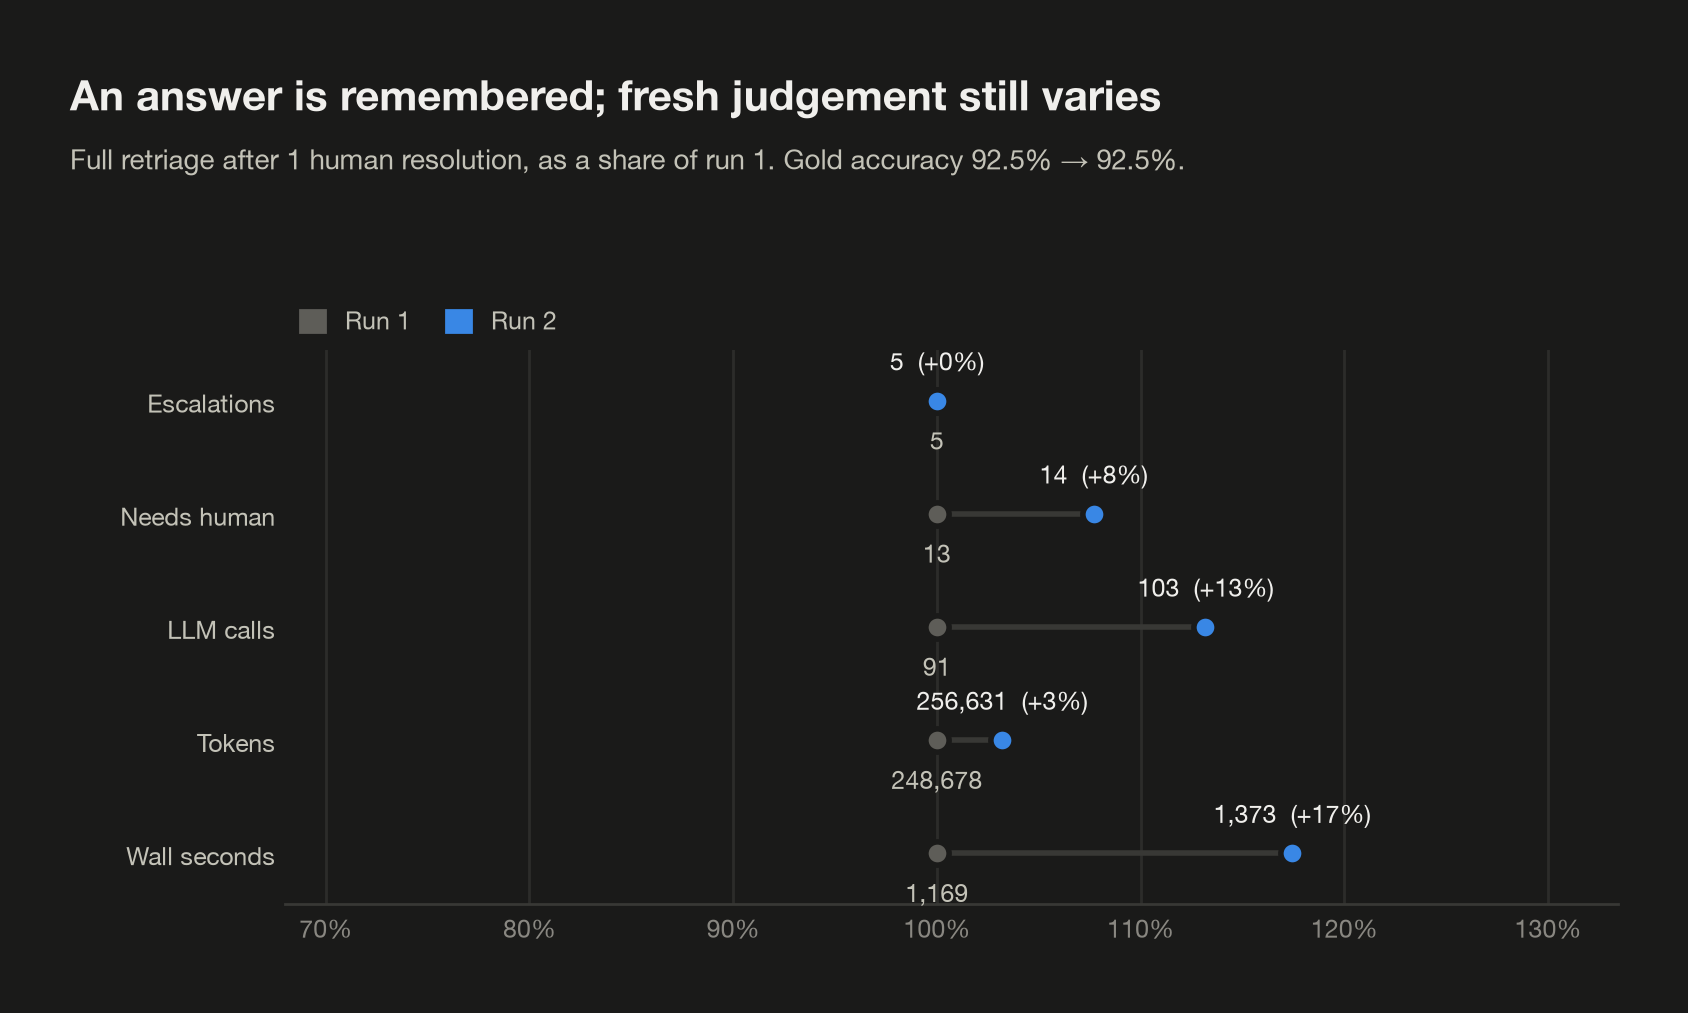
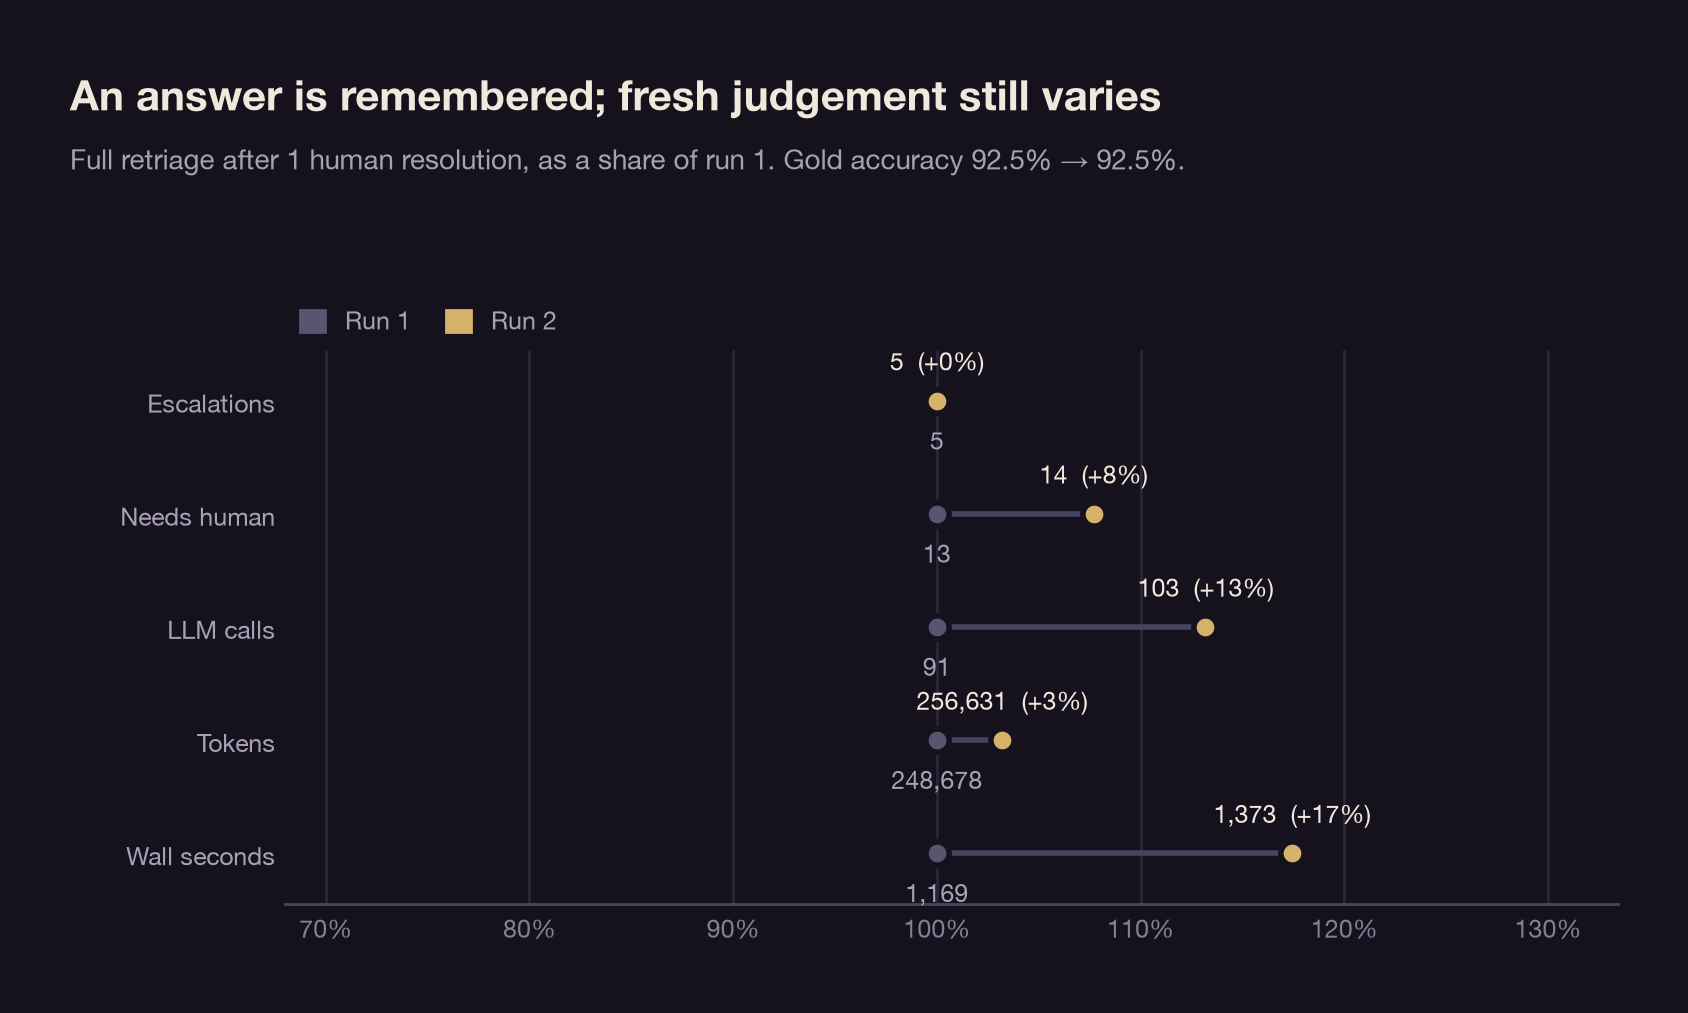
Retell the README around the silent NVD gap and refresh every image.

diff --git a/eval/charts.py b/eval/charts.py
@@ -2,9 +2,7 @@
 """Charts for the results narrative, in light and dark.
 
 Reads eval/results/eval-full.json and eval/results/robustness.json and
-writes PNGs to eval/results/charts/{light,dark}/. The annotated case file
-is drawn on output_examples/ui/case.png, which is a dark screenshot, so it
-is written once to both folders.
+writes PNGs to eval/results/charts/{light,dark}/.
 
     uv run --with matplotlib eval/charts.py
 """
@@ -23,35 +21,35 @@ from matplotlib.patches import FancyBboxPatch, Rectangle  # noqa: E402
 ROOT = Path(__file__).resolve().parents[1]
 RESULTS = ROOT / "eval" / "results"
 OUT = RESULTS / "charts"
-CASE_PNG = ROOT / "output_examples" / "ui" / "case.png"
 
+# The console's Ivory and Ink tokens (web/src/index.css), so the charts read as part of Sibyl.
 THEMES = {
     "light": {
-        "surface": "#fcfcfb",
-        "ink": "#0b0b0b",
-        "ink2": "#52514e",
-        "muted": "#898781",
-        "grid": "#e1e0d9",
-        "axis": "#c3c2b7",
-        "card": "#f3f2ee",
-        "accent": "#2a78d6",
-        "other": "#b9b7af",
-        "series": ["#2a78d6", "#eb6834", "#1baf7a", "#eda100", "#e87ba4"],
+        "surface": "#fbf8f2",
+        "ink": "#1c1828",
+        "ink2": "#5a5468",
+        "muted": "#8c869a",
+        "grid": "#e2dacb",
+        "axis": "#cfc6b4",
+        "card": "#f2ece1",
+        "accent": "#8a6a22",
+        "other": "#bdb5a6",
+        "series": ["#8a6a22", "#2c5f95", "#6a4bd1", "#b23a7e", "#5a5468"],
     },
     "dark": {
-        "surface": "#1a1a19",
-        "ink": "#f0efec",
-        "ink2": "#c3c2b7",
-        "muted": "#898781",
-        "grid": "#2c2c2a",
-        "axis": "#383835",
-        "card": "#242423",
-        "accent": "#3987e5",
-        "other": "#5e5d58",
-        "series": ["#3987e5", "#d95926", "#199e70", "#c98500", "#d55181"],
+        "surface": "#15121e",
+        "ink": "#efe9dc",
+        "ink2": "#a8a1b6",
+        "muted": "#847e96",
+        "grid": "#2a2638",
+        "axis": "#4a4460",
+        "card": "#1b1828",
+        "accent": "#d4b26a",
+        "other": "#5a5470",
+        "series": ["#d4b26a", "#8fb3d9", "#b9a2f0", "#e79ac4", "#a8a1b6"],
     },
 }
-STATUS = {"good": "#0ca30c", "warning": "#fab219", "critical": "#d03b3b"}
+STATUS = {"good": "#3f9a66", "warning": "#d9a43a", "critical": "#c8443c"}
 # A list in font.family lets matplotlib fall back per glyph (✓ ✗ → are not in Helvetica).
 FONT = ["Helvetica Neue", "Arial", "DejaVu Sans"]
 BUCKETS = ["straightforward", "nvd_gap", "range_conflict", "text_only", "special"]
@@ -113,10 +111,7 @@ def main() -> int:
             figure = draw(theme, result=result, robust=robust, gold=gold)
             figure.savefig(folder / f"{name}.png", dpi=200, bbox_inches="tight", pad_inches=0.35)
             plt.close(figure)
-        figure = case_annotated(theme)
-        figure.savefig(folder / "07-case-file-validator.png", dpi=150, bbox_inches="tight", pad_inches=0.2)
-        plt.close(figure)
-        print(f"wrote {folder.relative_to(ROOT)} ({len(charts) + 1} charts)")
+        print(f"wrote {folder.relative_to(ROOT)} ({len(charts)} charts)")
     return 0
 
 
@@ -392,50 +387,6 @@ def outcome_stack(theme, *, result, **_):
         axis,
         theme,
         [("Correct", _tint(STATUS["good"], theme)), ("Escalated to a human", STATUS["warning"]), ("Wrong", STATUS["critical"])],
-    )
-    return figure
-
-
-# ---------- 07 ----------
-
-
-def case_annotated(theme):
-    image = plt.imread(CASE_PNG)
-    height, width = image.shape[:2]
-    fig_w, fig_h = width / 150 + 5.2, height / 150 + 1.5
-    figure = plt.figure(figsize=(fig_w, fig_h))
-    figure.patch.set_facecolor(theme["surface"])
-    axis = figure.add_axes([0.0, 0.55 / fig_h, (width / 150) / fig_w, (height / 150) / fig_h])
-    axis.imshow(image)
-    axis.set_axis_off()
-    figure.text(0.01, 0.985, "Every verdict shows its work: the validator case file", fontsize=17, fontweight="semibold", color=theme["ink"], va="top")
-    notes = [
-        (180, "The verdict: affected, decided by the critic, not by one feed."),
-        (572, "Provenance: NVD and OSV both give a range. NVD's CPE bound is a typo (≤ 3.15.15)."),
-        (856, "Critic: the CPE bound contradicts a version in NVD's own description. Send back."),
-        (1012, "Matcher re-reads the description and quotes it: \"through version 13.15.15\"."),
-    ]
-    x_note = 1.02
-    for number, (y, text) in enumerate(notes, start=1):
-        axis.add_patch(plt.Circle((1500, y), 22, color=theme["accent"]))
-        axis.text(1500, y, str(number), ha="center", va="center", fontsize=11, color="#ffffff", fontweight="bold")
-        axis.annotate(
-            f"{number}  {text}",
-            xy=(1525, y),
-            xytext=(x_note, 1 - y / height),
-            textcoords="axes fraction",
-            fontsize=11,
-            color=theme["ink"],
-            va="center",
-            wrap=True,
-            arrowprops={"arrowstyle": "-", "color": theme["muted"], "linewidth": 1},
-        )
-    figure.text(
-        0.01,
-        0.15 / fig_h,
-        "Then the conflict clears and the verdict stays affected, linked to fix commit cbef508. Gold label G027: affected.",
-        fontsize=11,
-        color=theme["ink2"],
     )
     return figure
 

diff --git a/README.md b/README.md
@@ -1,31 +1,55 @@
+<picture>
+  <source media="(prefers-color-scheme: dark)" srcset="assets/readme/dark/hero.png">
+  <img alt="Sibyl: which new vulnerabilities actually affect your software? Beside it, the Sibyl overview with its briefing: patch pillow 9.5.0 in reporting-worker first." src="assets/readme/light/hero.png">
+</picture>
+
 # Sibyl
 
 **Which new vulnerabilities actually affect your software?**
 
-Sibyl is a team of agents that answers that question for your own code. Connect a repository and Sibyl finds your services and the exact package versions they run, reconciles seven public vulnerability sources against them, and tells you what to patch first. Every verdict cites the source record behind it. When the evidence falls short, Sibyl asks you instead of guessing, and it remembers your answer.
+Sibyl is a team of six agents that answers that question for your own code, and shows its work. Connect a repository and Sibyl finds every service and the exact package versions it runs. It reconciles seven public vulnerability sources that disagree with each other, and tells you what to patch first. Every verdict cites the record behind it. When the evidence falls short, Sibyl asks you instead of guessing, and it remembers your answer.
 
 Built for the Open Agent Hackathon 2026, Track 1: Solving Fragmented Intelligence.
 
-## The problem
+## Your scanner went quiet in April
 
-Vulnerability data is scattered and it disagrees. OSV, GitHub Advisories, NVD, CVE.org, CISA KEV, FIRST EPSS and ENISA EUVD each describe the same flaw differently: different package names, different version ranges, and sometimes plain mistakes. In 2026 NVD stopped enriching most new CVEs with the CPE data that legacy scanners depend on, so a pipeline built on NVD alone now misses more than half of the real problems.
+On 15 April 2026, NIST's National Vulnerability Database (NVD) stopped fully enriching most new CVEs. Only 15 to 20 percent still get the CPE data that tells a scanner which product versions are affected. Many free scanners and in-house scripts match your software to vulnerabilities through exactly that data. Since April they have been missing new vulnerabilities, and they do it silently: no error, just fewer findings.
 
-A security engineer ends up reading four advisories to settle one CVE, for one package, in one service. Then they do it again next week.
+The data still exists, but it is spread across seven sources that disagree. OSV, GitHub Advisories, NVD, CVE.org, CISA KEV, FIRST EPSS and ENISA EUVD each describe the same flaw with different package names, different version ranges, and sometimes plain mistakes. When we checked the twelve newest reviewed GitHub advisories, NVD had no CPE data for any of them. OSV and GitHub had exact version ranges for all twelve.
 
-## How you work with Sibyl
+So a security engineer reads four advisories to settle one CVE, for one package, in one service. Then they do it again next week.
 
-1. **Connect a repository.** Sibyl scans the tree with `cdxgen` and makes a service of every folder with its own manifest (npm, PyPI, Maven, Go), with the exact versions it runs.
-2. **Confirm what it worked out.** From the code it read, Sibyl proposes each service's exposure, owner, criticality and data, and asks you to confirm them in the Inbox. Those answers weight every priority after that.
-3. **Let the agents triage.** Six agents reconcile the seven sources against your packages. Every step is recorded in the run trace.
-4. **Patch what matters.** The patch list ranks cases by known exploitation, EPSS, CVSS and how exposed the service is, and shows which sources agree with each verdict.
-5. **Check any verdict.** A case file shows every fact with the record it came from, and which source won when they disagreed.
-6. **Answer what it can't settle.** Conflicting or thin evidence goes to *Needs you* with each source's position side by side.
-7. **It remembers.** Your answer decides the same case in later runs. Trust in each source changes only when you approve it.
-8. **It keeps watching.** Sibyl re-scans when code changes, refreshes the feeds and re-triages on a schedule, reusing every verdict whose inputs didn't change.
+<picture>
+  <source media="(prefers-color-scheme: dark)" srcset="eval/results/charts/dark/01-problem-recall-by-bucket.png">
+  <img alt="Bar chart: a legacy NVD pipeline finds 11 of 26 real vulnerabilities in the gold set; Sibyl finds all 26." src="eval/results/charts/light/01-problem-recall-by-bucket.png">
+</picture>
 
-The UI has a guided tour of exactly this flow: open it with **Explore the demo**. It uses a sample company with four services, so no repository is needed.
+On our hand-labelled gold set, a pipeline built on NVD alone finds 11 of the 26 real vulnerabilities. Sibyl finds all 26.
 
-## The agents
+## What Sibyl promises
+
+- **It starts from your code.** Not a list of CVEs, but the services you run and the exact versions inside them.
+- **It shows its work.** Every fact links to the source record it came from, and every disagreement shows which source won and why.
+- **It asks when it can't know.** Thin or conflicting evidence goes to you with each source's position side by side. It is never guessed at.
+- **It learns.** Your answer decides the same case in later runs. Trust in a source changes only when you approve it.
+
+## Every verdict shows its work
+
+<picture>
+  <source media="(prefers-color-scheme: dark)" srcset="assets/readme/dark/case-file.png">
+  <img alt="The Sibyl case file for CVE-2025-56200 in validator 13.7.0, annotated: NVD's range is a typo, the Critic sends the case back, the Matcher quotes NVD's own description, and the Critic accepts." src="assets/readme/light/case-file.png">
+</picture>
+
+Here is one real case from the sample run. NVD's version range for `validator` is a typo that contradicts NVD's own description. A scanner that trusts one feed would take the range at face value. Sibyl's Critic notices the contradiction and sends the case back. The Matcher re-reads the record and quotes the sentence that settles it, and the Critic accepts. The gold label, taken from the upstream fix commit, agrees.
+
+This is the core idea: agents that check each other's work, and a case file that keeps the receipts.
+
+## How Sibyl works
+
+<picture>
+  <source media="(prefers-color-scheme: dark)" srcset="assets/readme/dark/how-it-works.png">
+  <img alt="Architecture: repositories, your context and seven public sources feed a Zetaris federated query; six agents (Scout, Mapper, Matcher, Critic, Prioritiser, Reporter) work over a Meterless World Model and H-MEM, with every model call on NVIDIA Nemotron; out come a briefing, patch list, case files, run trace and questions for you." src="assets/readme/light/how-it-works.png">
+</picture>
 
 | Agent | What it does |
 |---|---|
@@ -34,20 +58,60 @@ The UI has a guided tour of exactly this flow: open it with **Explore the demo**
 | **Matcher** | Evaluates version ranges, and reads the advisory text when there is no structured range. |
 | **Critic** | Challenges each draft verdict: source authority, disagreements, withdrawn records, unsupported quotes. Sends weak cases back to the Mapper or Matcher. |
 | **Prioritiser** | Scores what is affected with exploitation, EPSS, CVSS and your service's exposure, and routes low-confidence cases to you. |
-| **Reporter** | Writes the patch list, the briefing and the case files. |
+| **Reporter** | Writes the briefing, the patch list and the case files. |
 
 The agents talk through structured messages in a shared World Model, so every claim, conflict and send-back is traceable.
 
-## Built on
+## A week with Sibyl
 
-- **Zetaris** is the data layer. It federates Sibyl's Postgres with live REST tables for KEV, EPSS and EUVD, and joins them with your inventory in one query, `v_candidate_matches`. The inventory is a Zetaris Unified Semantic Layer model with data-quality rules that run after every sync.
-- **Meterless** provides the World Model, which holds case state, and H-MEM, which holds the trust ledger and your resolutions. Both are our own TypeScript implementations in `engines/`; they pass the upstream conformance suites 8/8 and 13/13. Nightshift routes every model call.
-- **NVIDIA Nemotron** answers every model call, through a Nemotron-only fleet in Nightshift. Only manifest excerpts are sent, never whole files.
-- Python 3.12, FastAPI, Postgres 16, and React with Vite, Tailwind and shadcn/ui.
+1. **Connect a repository.** Sibyl scans the tree with `cdxgen` and makes a service of every folder with its own manifest (npm, PyPI, Maven, Go), with the exact versions it runs.
+2. **Confirm what it worked out.** From the code, Sibyl proposes each service's exposure, owner, criticality and data, and asks you to confirm them in the Inbox. Those answers weight every priority after that.
+3. **Let the agents triage.** Six agents reconcile the seven sources against your packages. The run page shows each stage, the budget, every Zetaris query and model call, and every Critic send-back.
+4. **Read the briefing.** One paragraph tells you what to patch first and which decisions are waiting on you.
+5. **Patch what matters.** The patch list ranks cases by known exploitation, EPSS, CVSS and how exposed the service is, and shows which sources agree. Turn on **Compare with NVD-only** to see what a legacy scanner would have missed: on the sample company, 110 cases.
+6. **Answer what it can't settle.** Conflicting or thin evidence lands in *Needs you*, with each source's position side by side.
+7. **It remembers, and keeps watching.** Your answer decides the same case next time. Sibyl re-scans when code changes, refreshes the feeds and re-triages on a schedule, reusing every verdict whose inputs didn't change.
 
-## Results
+<table>
+  <tr>
+    <td width="50%">
+      <picture>
+        <source media="(prefers-color-scheme: dark)" srcset="assets/readme/dark/patch-list.png">
+        <img alt="Patch list ranked by priority, with signals and source agreement, and 110 cases flagged as missed by an NVD-only matcher" src="assets/readme/light/patch-list.png">
+      </picture>
+      <p><b>Patch list.</b> Ranked, with the sources that agree, and what an NVD-only scanner would miss.</p>
+    </td>
+    <td width="50%">
+      <picture>
+        <source media="(prefers-color-scheme: dark)" srcset="assets/readme/dark/run-trace.png">
+        <img alt="A completed run: seven stages, budget, source health, run receipts and the agent trace" src="assets/readme/light/run-trace.png">
+      </picture>
+      <p><b>Run trace.</b> Every stage, query, model call and decision, recorded.</p>
+    </td>
+  </tr>
+  <tr>
+    <td width="50%">
+      <picture>
+        <source media="(prefers-color-scheme: dark)" srcset="assets/readme/dark/needs-you.png">
+        <img alt="Needs you: CNA says xml2js 0.4.23 is affected, OSV does not list it, and you choose Affected, Not affected or Accept risk" src="assets/readme/light/needs-you.png">
+      </picture>
+      <p><b>Needs you.</b> When sources disagree, you make the call, and Sibyl remembers it.</p>
+    </td>
+    <td width="50%">
+      <picture>
+        <source media="(prefers-color-scheme: dark)" srcset="assets/readme/dark/memory.png">
+        <img alt="Memory: trust changes waiting for approval, human resolutions, learned mappings and the per-field trust ledger" src="assets/readme/light/memory.png">
+      </picture>
+      <p><b>Memory.</b> The trust ledger and your answers. Nothing changes without your approval.</p>
+    </td>
+  </tr>
+</table>
 
-Measured on the sample workspace (4 services, 689 cases) against 40 hand-labelled gold pairs. Each label comes from the upstream fix commit, never from Sibyl's output.
+You can try all of this without a repository: press **Explore the demo** for a ten-step guided tour of a sample company with four services.
+
+## Does it work?
+
+Measured on the full sample run (4 services, 689 cases) against 40 hand-labelled gold pairs. Each label comes from the upstream fix commit, never from Sibyl's output.
 
 | | Sibyl |
 |---|---|
@@ -59,15 +123,22 @@ Measured on the sample workspace (4 services, 689 cases) against 40 hand-labelle
 | Re-run of an unchanged repository | **69 of 69** verdicts reused, zero model calls |
 
 <picture>
-  <source media="(prefers-color-scheme: dark)" srcset="eval/results/charts/dark/07-case-file-validator.png">
-  <img alt="A case file: NVD's range is a typo, the Critic sends the case back, and the Matcher quotes NVD's own description" src="eval/results/charts/light/07-case-file-validator.png">
+  <source media="(prefers-color-scheme: dark)" srcset="eval/results/charts/dark/06-how-each-system-is-wrong.png">
+  <img alt="Stacked bars of correct, escalated and wrong answers out of 40 for each system. Sibyl: 37 correct, 1 escalated, 2 wrong. NVD only: 25 correct, 14 wrong. Single-pass LLM: 15 correct, 25 wrong." src="eval/results/charts/light/06-how-each-system-is-wrong.png">
 </picture>
 
-Here, NVD's version range for validator is a typo that contradicts NVD's own description. The Critic catches the contradiction and sends the case back, and the Matcher re-reads the description and quotes it.
+Sibyl matches the best baseline on accuracy with fewer false alarms (2, against 3 for OSV alone), because the one pair it can't settle goes to a human instead of being guessed. A pipeline built on NVD alone misses 15 of the 26 real vulnerabilities. And unlike any single feed, every Sibyl verdict comes with its sources, its conflicts and a priority.
 
-Sibyl is built to fail safe. With any one of the seven sources switched off, the run still finishes and is marked degraded. With OSV down, Sibyl sends 18 cases to a human instead of 3: it gets more careful, not wrong. Instructions planted in an advisory are quarantined before they reach a model.
+Sibyl is also built to fail safe. With any one of the seven sources switched off, the run still finishes and is marked degraded. With OSV down, Sibyl sends 18 cases to a human instead of 3: it gets more careful, not wrong. Instructions planted in an advisory are quarantined before they reach a model.
 
-Every number is reproducible. [`eval/README.md`](eval/README.md) explains how, and the full tables are in [`eval/results/`](eval/results/).
+Every number is reproducible. [`eval/README.md`](eval/README.md) explains how, and the full tables and charts are in [`eval/results/`](eval/results/).
+
+## Built on
+
+- **Zetaris** is the data layer. It federates Sibyl's Postgres with live REST tables for KEV, EPSS and EUVD, and joins them with your inventory in one query, `v_candidate_matches`. The inventory is a Zetaris Unified Semantic Layer model with data-quality rules that run after every sync.
+- **Meterless** provides the World Model, which holds case state, and H-MEM, which holds the trust ledger and your resolutions. Both are our own TypeScript implementations in `engines/`; they pass the upstream conformance suites 8/8 and 13/13. Nightshift routes every model call.
+- **NVIDIA Nemotron** answers every model call, through a Nemotron-only fleet in Nightshift. Only manifest excerpts are sent, never whole files.
+- Python 3.12, FastAPI, Postgres 16, and React with Vite, Tailwind and shadcn/ui.
 
 ## Run it
 
@@ -97,6 +168,7 @@ uv run scripts/run_demo.py --label fixtures      # headless triage; report and t
 uv run pytest                                    # unit tests
 uv run tests/robustness_check.py                 # one outage per source, plus idempotency
 uv run eval/collect_runs.py && uv run eval/run_eval.py   # re-run the eval
+uv run --with matplotlib eval/charts.py          # redraw the result charts
 ```
 
 ## What's in the repo
@@ -108,6 +180,7 @@ uv run eval/collect_runs.py && uv run eval/run_eval.py   # re-run the eval
 | `web/` | The UI |
 | `zetaris/sql/` | Zetaris datasources, REST tables and views |
 | `prompts/` | Versioned agent prompts |
-| `output_examples/` | Example reports and full agent traces |
+| `output_examples/` | Example reports, full agent traces and UI screenshots |
 | `eval/` | Gold set, eval harness and results |
 | `data/sample/` | The sample company's SBOMs and source snapshots |
+| `assets/readme/` | Images for this README |

diff --git a/eval/results/charts/README.md b/eval/results/charts/README.md
@@ -10,7 +10,6 @@ Drawn by `uv run --with matplotlib eval/charts.py` from `eval-full.json` and `ro
 | 4 | `04-per-pair-grid.png` | Where every other system guesses wrong (braces), Sibyl asks a human |
 | 5 | `05-cost-per-case.png` | One LLM call per case costs 53× more tokens for the same accuracy |
 | 6 | `06-how-each-system-is-wrong.png` | Same accuracy, a safer kind of miss |
-| 7 | `07-case-file-validator.png` | The validator case file: send-back, quote, verdict (one dark screenshot) |
 | 8 | `08-memory-effect.png` | One human answer: fewer escalations, calls and tokens in run 2 |
 | 9 | `09-cpe-join-gap.png` | One data gap explains both wrong answers and the missed conflicts |
 | 10 | `10-critic-conflicts.png` | The critic surfaces conflicts (6 of 9 vs 4 of 9); verdicts unchanged here |
